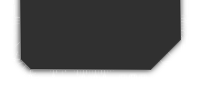
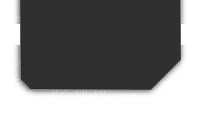
updated graphic

Changed region(s): [[0.06, 0.18, 0.93, 0.78], [0.06, 0.18, 0.12, 0.39]]

diff --git a/source/MapSalesPanel.cpp b/source/MapSalesPanel.cpp
@@ -228,7 +228,7 @@ int MapSalesPanel::CompareSpriteSwizzle() const
 
 void MapSalesPanel::DrawKey() const
 {
-	const Sprite *back = SpriteSet::Get("ui/sales key extended");
+	const Sprite *back = SpriteSet::Get("ui/sales key");
 	SpriteShader::Draw(back, Screen::TopLeft() + Point(WIDTH + 10, 0) + .5 * Point(back->Width(), back->Height()));
 
 	Color bright(.6f, .6f);
